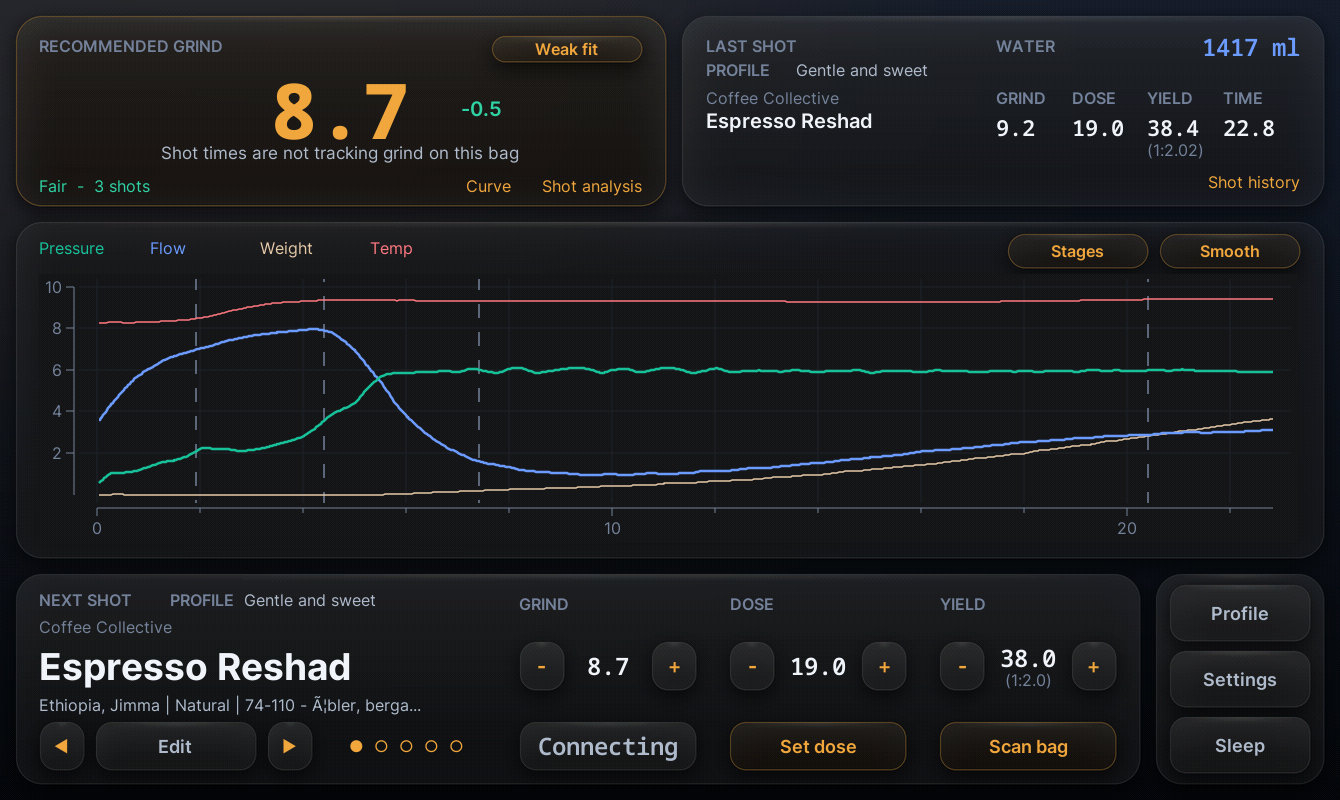
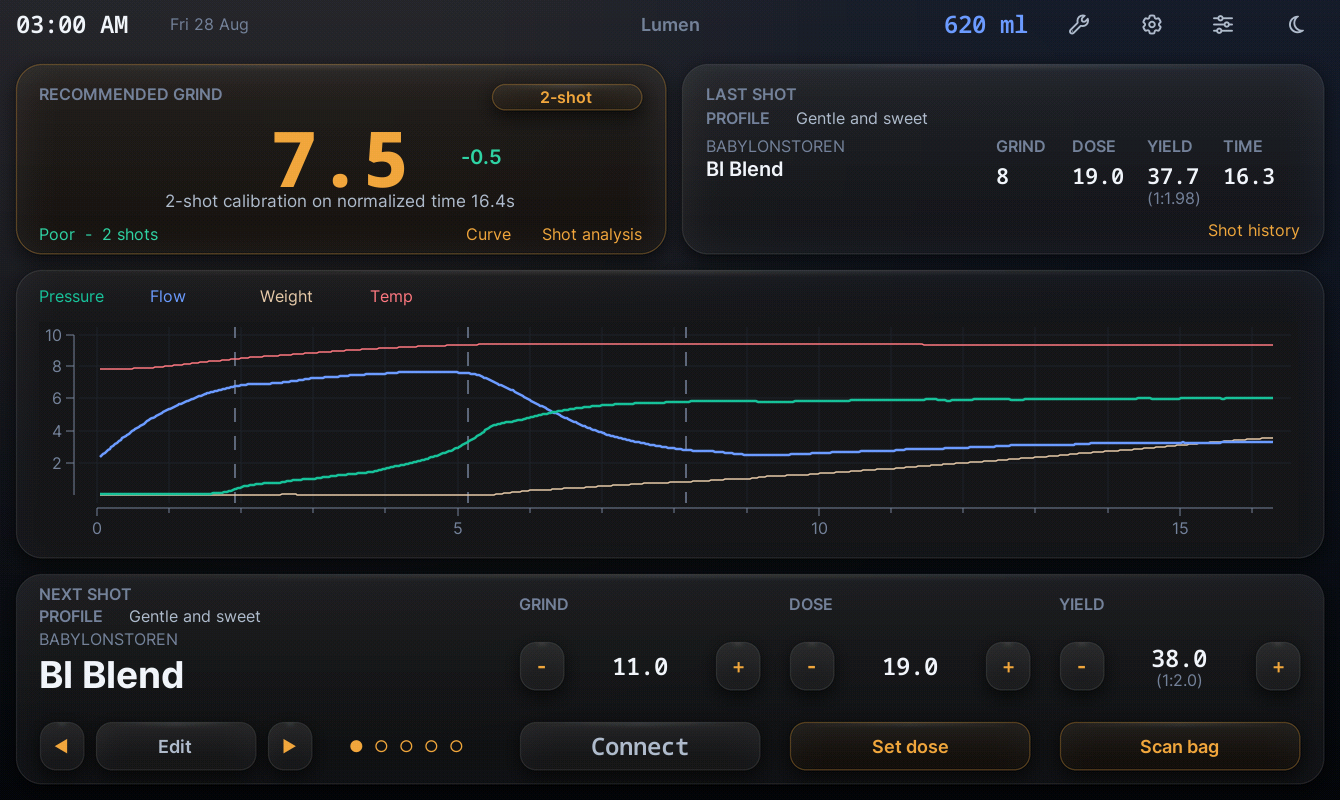
README: 0.37.1 feature list and a fresh home-screen screenshot
The screenshot is a live capture of 0.37.1 on the tablet: taskbar with
clock/date, wordmark, water level and the four icons; grind card with
its Shot analysis and Curve links; the pill-less chart with stage
separators; and the full-width bean strip. Text updates: taskbar +
maintenance dot rows in the tile table, grind card opens Grind
Advisor's settings, the chart's toggles are gone (always smooth with
stages), the settings right column is THEME / BAGS TO CYCLE / CLOCK,
PROFILE is tapped on its own row, and the settings-write list reflects
the removed smoothing/stages keys plus the clock formats.

diff --git a/README.md b/README.md
@@ -5,32 +5,27 @@ A glass dashboard skin for the Decent DE1, by Blastize.
 Lumen replaces the home screen with a dashboard: the current grind
 recommendation, the last shot, the shot graph, and the beans for the next
 shot — all reachable without going into Settings. It is built to work with
-GrindAdvisor, DYE, Bean Scanner, ShotHistoryEditor and SDB.
+GrindAdvisor, DYE, Bean Scanner, ShotHistoryEditor, MaintenanceTracker
+and SDB.
 
-**Version 0.30.0 — every page built, baked and running on the tablet.**
+**Version 0.37.1 — every page built, baked and running on the tablet.**
 
-0.28.0: the home page follows Shot History Editor changes — edit or delete a
-shot there and the chart, the LAST SHOT card and the bag cycler reload from
-what `history/` now holds, via `::lumen::refresh_after_history_change`
-(called by ShotHistoryEditor v0.7.0; other skins are unaffected).
+Since 0.30.0 the top of the screen is a **taskbar**: a live clock and date
+(12/24-hour and day-month/month-day formats, chosen on the settings CLOCK
+row), the water level, and wrench / gear / sliders / moon icons — plugin
+maintenance, Lumen settings, the stock app settings, and sleep. A
+**maintenance dot** at the wrench turns amber or red when the
+MaintenanceTracker plugin says something is due or overdue. The old side
+panel is gone; the bean strip runs the full width, and the chart lost its
+toggle pills — it is always smooth, always showing stage lines. Every tap
+answers with a **press flash** fitted to the control: a neutral chip behind
+buttons and text links, an outline for the grind card.
 
-0.24.0 adds the **water tank level** in millilitres to the home screen, a
-**Profile** shortcut beside Settings and Sleep, moves **DECENT APP** to the
-bottom-right card of the Lumen settings page, and fixes the flow-page timers
-flashing the *previous* flow's elapsed time for a moment when a page opens.
-0.24.1 makes the last shot's **yield** survive an app restart — it is read
-back from the shot file — and show `--` rather than `0.0` when the shot was
-pulled without a scale. 0.25.0 extends that to **grind and dose**: the LAST
-SHOT card reports what the shot itself recorded, so a correction made in the
-Shot History Editor shows up there.
-
-Since 0.18.0: every page uses a pre-rendered frosted background rather than
-just the home screen; the next-shot strip gained a **bag cycler** that steps
-through your recently used beans; both cards show the **profile** the shot
-uses, because a profile change now starts a fresh grind calibration; and the
-bean's **tasting notes** sit under its name. The grind tile follows the bag
-you cycle to, showing that bag's own recommendation rather than the last one
-you happened to pull.
+Earlier milestones: the home page follows Shot History Editor edits
+(0.28.0); the LAST SHOT card reports what the shot file records, so
+corrections show up (0.24.1–0.25.0); every page has a pre-rendered frosted
+background and the strip carries the bag cycler (0.18.0–0.23.x). The full
+story is in the CHANGELOG.
 
 ## The home screen
 
@@ -46,20 +41,21 @@ backdrop and let the shadow do the separating.
 
 | Tile | Shows | Tap |
 |---|---|---|
-| Grind | GrindAdvisor's next setting for the loaded bag, the change from the last one, method, confidence and shot count | Opens GrindAdvisor's result popup |
+| Taskbar (top) | Live clock and date, the "Lumen" wordmark, and the water left in the tank in mL (blank when no machine is connected) | The four icons: wrench = MaintenanceTracker's card list, gear = Lumen settings, sliders = the stock app settings, moon = sleep |
+| Maintenance dot (at the wrench) | Amber when a maintenance item is due soon, red when one is overdue — driven by the MaintenanceTracker plugin's status; blank when all is well or the plugin is absent | — |
+| Grind | GrindAdvisor's next setting for the loaded bag, the change from the last one, method, confidence and shot count | Opens GrindAdvisor's settings (target time, rounding, history) |
+| Shot analysis (on the grind tile) | — | Opens GrindAdvisor's result popup |
 | Curve (on the grind tile) | — | Opens GrindAdvisor's Calibration Curve directly |
 | Last shot | The profile it ran on, the roaster and bean, then grind, dose, yield (with the ratio beneath) and time — as **that shot recorded them**, read back from the shot file, so corrections made in the Shot History Editor appear here. `--` when the shot had no weight | — |
-| Water (Last shot tile, top right) | Water left in the tank, in mL, in blue. Blank when no machine is connected | — |
 | Shot history (Last shot tile) | — | Opens the Shot History Editor (edit / soft-delete past shots) |
-| Graph | Pressure, flow, cumulative weight and basket temperature for the shot, plus dashed stage separators at every frame change | **Stages** and **Raw / Smooth** toggles in its header |
-| Next shot | The profile, the roaster, the bean, and its tasting notes | — |
+| Graph | Pressure, flow, cumulative weight and basket temperature for the shot — always smoothed (Catmull-Rom through the recorded samples), with dashed stage separators at every frame change | — |
+| Next shot | The profile, the roaster, the bean, and its tasting notes | PROFILE row opens the app's profile chooser |
 | ◀ ▶ (next-shot card) | The bag being cycled, with a dot per reachable bag beside Edit — filled for the one loaded, leftmost the most recent | Steps through your recently used beans; the grind tile, chart and LAST SHOT card all switch to that bag (0.30.0). It does not wrap: at the newest or oldest bag, that direction stops |
 | Edit | — | Opens DYE's next-shot editor |
 | − value + steppers | GRIND, DOSE, YIELD — the live value sits between the pills, with the derived ratio under the yield | Each tap ±0.1; drumming rapidly (3+ taps a second) escalates to ±0.5 then ±1.0. Any measured pace stays at ±0.1 (0.28.1) |
 | Scale readout | Live weight, or `Connecting` / `Connect` / `no scale` | Forces a scale reconnect |
 | Set dose | — | Stores the current scale weight as the dose |
 | Scan bag | — | Bean Scanner |
-| Profile / Settings / Sleep | Their own side panel, right of the strip | The app's profile list, Lumen settings, sleep |
 
 The bag cycler reads your recent beans through SDB's public API and applies
 the chosen one through DYE, so the skin itself opens no database. How many
@@ -196,13 +192,19 @@ The selected setting is the large value between the pills; the other sits
 small beneath it, so both are always readable. The choice persists — whichever
 half you last steered is the one waiting next time.
 
-The right column runs **THEME**, **BAGS TO CYCLE**, **GRIND ADVISOR** and then
-**DECENT APP** — the door to the stock settings, profiles, plugins and
-firmware — as the bottom-right card.
+The right column runs **THEME**, **BAGS TO CYCLE** and **CLOCK**. The
+stock app settings (profiles, plugins, firmware) open from the taskbar's
+sliders icon, and Grind Advisor's settings from the grind card itself —
+so neither needs a row here any more.
 
 *Bags to cycle* (3–10, default 5) sets how many recent bean bags the home
 strip's bag cycler offers. It is stored in `::settings(lumen_bag_count)` and
 is a Lumen preference only — it never reaches the machine.
+
+*Clock* carries two live-labelled buttons: the date sample toggles
+day-month ↔ month-day, the time button toggles 24H ↔ 12H. Both apply to
+the taskbar immediately — no restart — and persist in
+`::settings(lumen_date_format)` / `::settings(lumen_time_format)`.
 
 ## The next-shot strip
 
@@ -216,9 +218,9 @@ never independent — stepping it only ever wrote the target yield — and the
 column was needed for the profile, which now scopes calibration (Grind Advisor
 3.7.0 starts a fresh calibration when the profile changes).
 
-The profile tile is read-only; profiles are chosen in the app's own picker,
-which the side panel's **Profile** button opens directly (`show_settings
-settings_1`, the stock profile tab).
+Profiles are chosen in the app's own picker, which tapping the **PROFILE**
+row on the NEXT SHOT card opens directly (`show_settings settings_1`, the
+stock profile tab).
 
 The **LAST SHOT** card names the profile that shot ran on, which is not
 necessarily the one loaded now — when the two differ, Grind Advisor has
@@ -227,10 +229,6 @@ started a fresh calibration.
 Nothing in the cycler touches the database directly: the bag list and shot
 clock come from SDB's public read API, and the write goes through DYE's own
 `source_next_from`, the same path Bean Scanner uses.
-
-*Grind Advisor* opens that plugin's settings through its public
-`open_settings_dialog`; the plugin's own page captures where it was opened
-from, so **Done** comes straight back here.
 
 The **THEME** row on the Lumen settings page toggles it. Because the palette
 is read once at load and every canvas item is created from it, the change
@@ -269,8 +267,11 @@ written, renamed or deleted.
 Every `::settings` write happens only on an explicit tap, and every stepper
 clamps its value. Three groups:
 
-* **Preferences:** `live_graph_smoothing_technique` (Raw/Smooth),
-  `lumen_chart_stages` (Stages), `lumen_theme` (theme).
+* **Preferences:** `lumen_theme` (theme), `lumen_bag_count` (bag cycler
+  depth), `lumen_time_format` / `lumen_date_format` (taskbar clock).
+  Since 0.36.0 the chart is always smooth with stage lines shown —
+  `live_graph_smoothing_technique` and `lumen_chart_stages` are no
+  longer read or written.
 * **Next-shot steppers:** `grinder_dose_weight` (Set dose — refuses
   non-positive readings — and the dose stepper, 2..40), `grinder_setting`
   (grind stepper, 0..100), `final_desired_shot_weight` /
